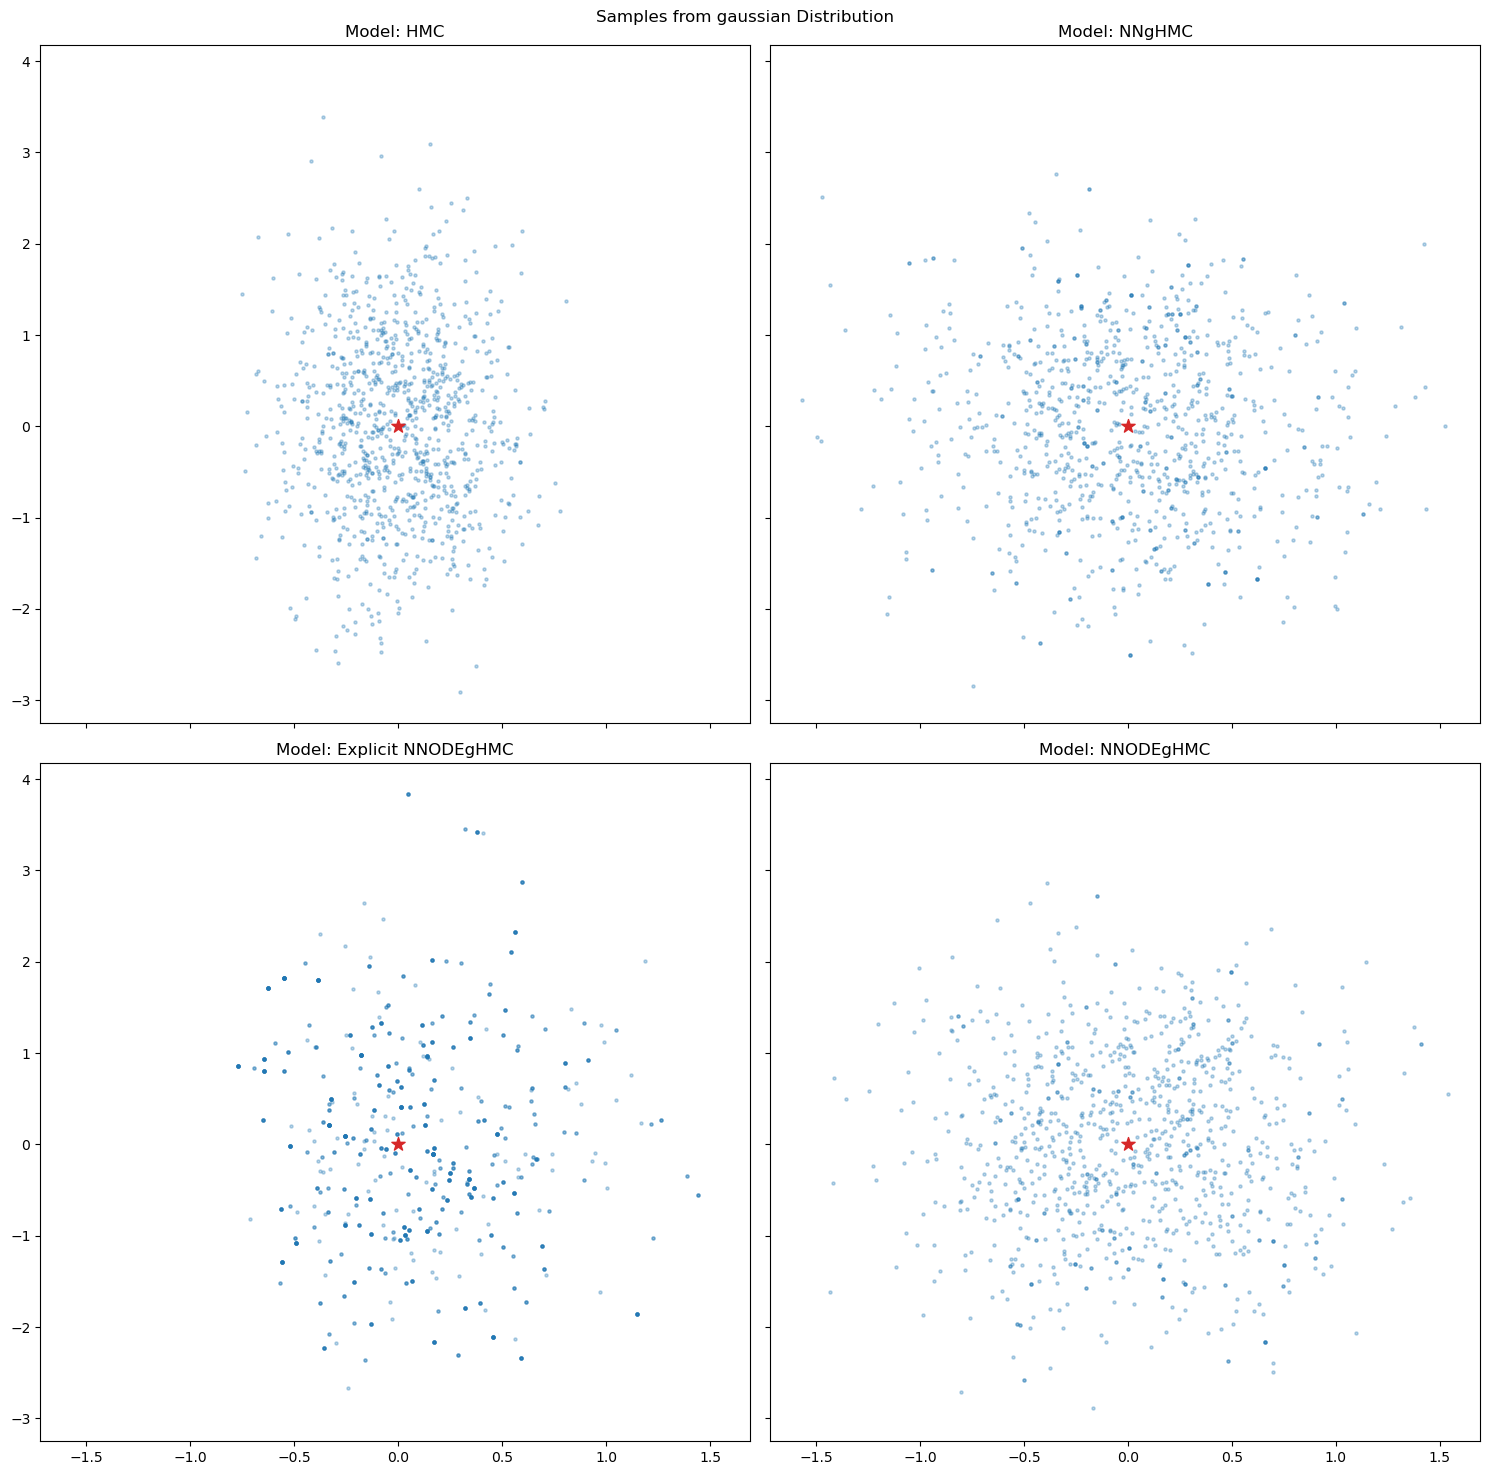
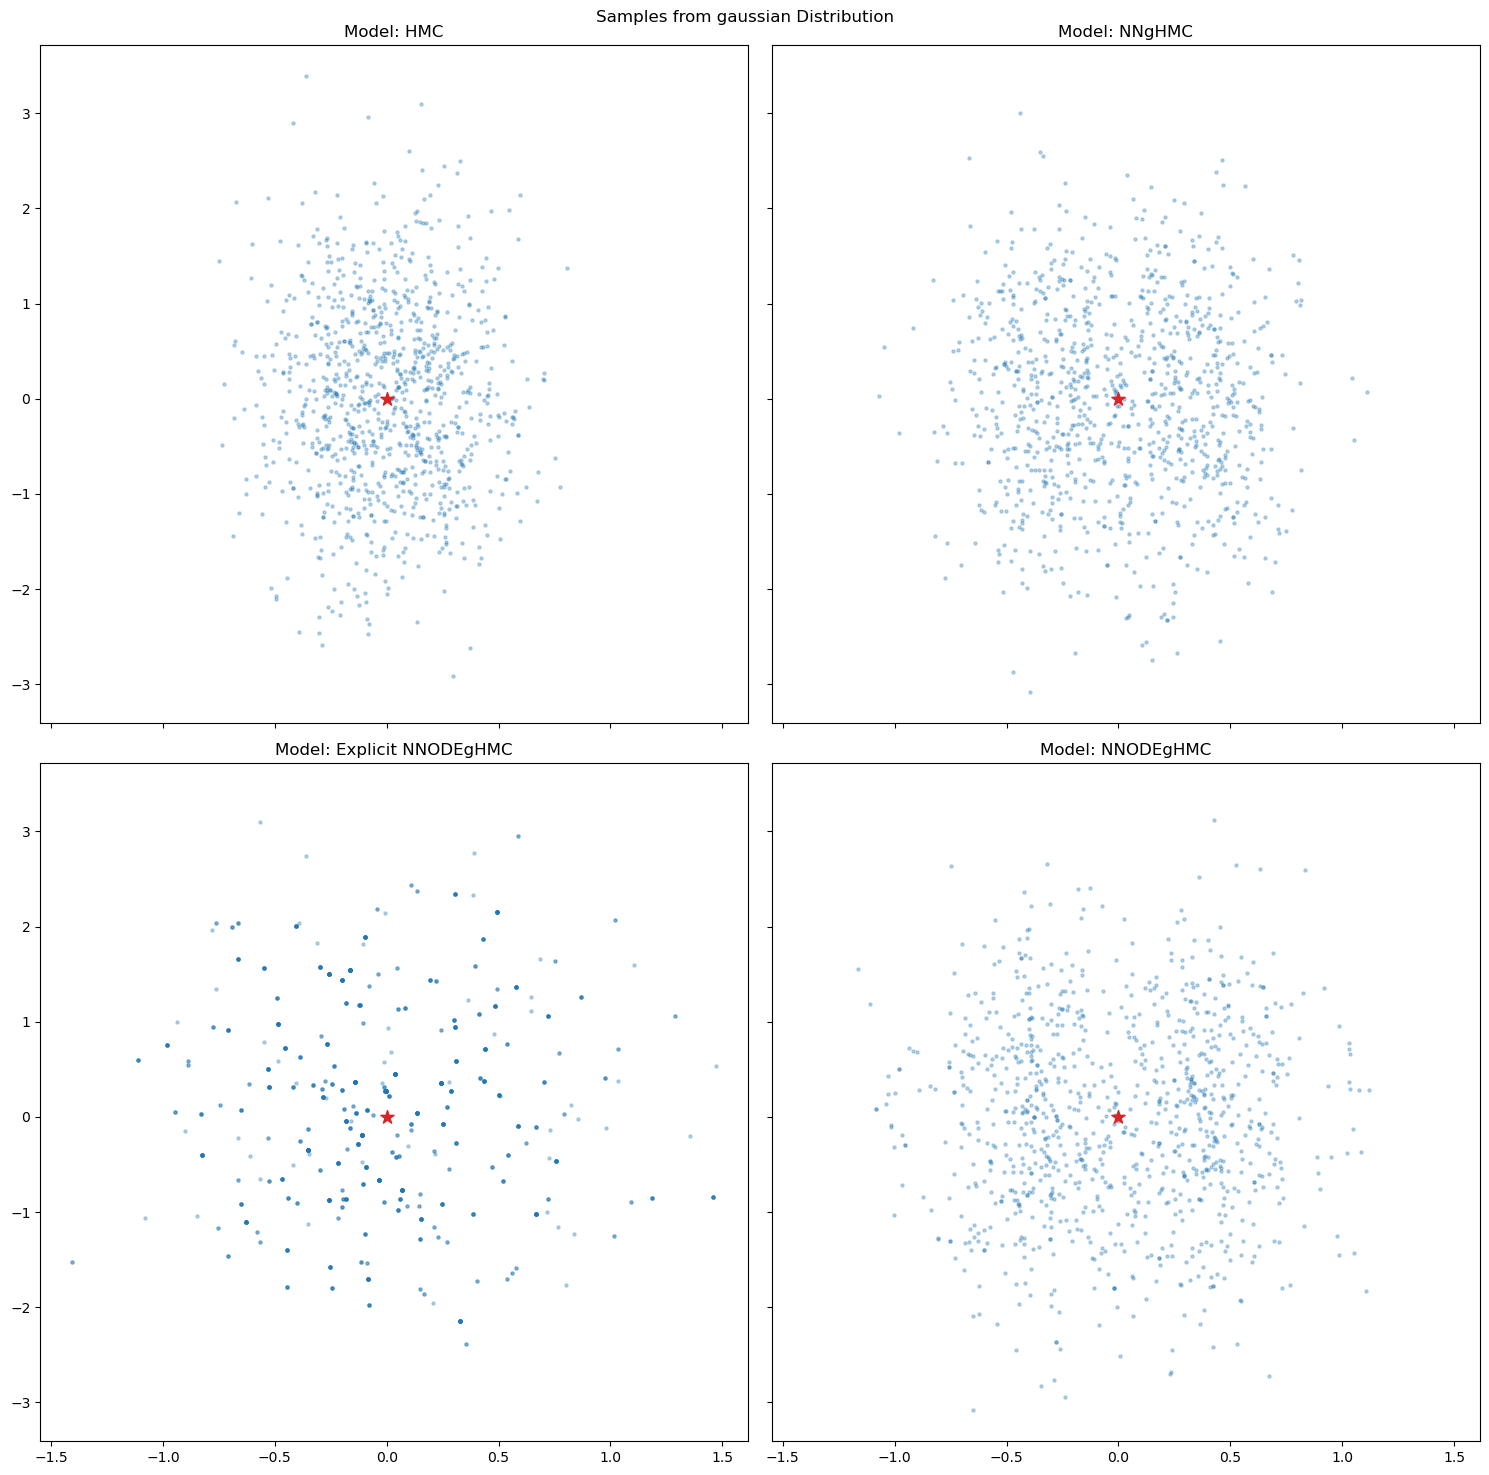
added final stuff before pres

diff --git a/hamiltorch/experiments.py b/hamiltorch/experiments.py
@@ -1,4 +1,5 @@
 import torch
+import numpy as np
 import hamiltorch
 import arviz as az
 from hamiltorch.samplers import leapfrog
@@ -29,7 +30,7 @@ experiment_hyperparams = {
 }
 
 
-def run_experiment(model_type, sensitivity, distribution, solver):
+def run_experiment(model_type, sensitivity, distribution, solver, percent = 1):
     hamiltorch.set_random_seed(123)
     print(f"Running experiment for: solver: {solver}, sensitivity: {sensitivity}, distribution: {distribution}, model: {model_type}")
     experiment_params = experiment_hyperparams[distribution]
@@ -53,7 +54,7 @@ def run_experiment(model_type, sensitivity, distribution, solver):
         return params_hmc, model, gradient_func
     elif model_type == "NNgHMC":
         params_hmc_surrogate, surrogate_model = hamiltorch.sample_surrogate_hmc(log_prob_func=log_prob, params_init=params_init,
-                                                  num_samples=N,step_size=step_size,num_steps_per_sample=L,burn=burn,
+                                                  num_samples=N,step_size=step_size,num_steps_per_sample=L,burn=int(burn * percent),
                                                   desired_accept_rate=0.8)
         model = lambda x, t: (None, torch.cat([torch.stack(item,0) for item in 
                                                leapfrog(x[..., :dim], x[..., dim:], log_prob_func=log_prob,steps = t.shape[0], 
@@ -61,13 +62,13 @@ def run_experiment(model_type, sensitivity, distribution, solver):
         return params_hmc_surrogate, model, surrogate_model
     elif model_type == "NNODEgHMC":
         params_hmc_surrogate_ode_nnghmc, surrogate_model_ode_nnghmc = hamiltorch.sample_neural_ode_surrogate_hmc(log_prob_func=log_prob, params_init=params_init,
-                                                  num_samples=N,step_size=step_size,num_steps_per_sample=L,burn=burn, model_type = "", sensitivity=sensitivity, solver = solver
+                                                  num_samples=N,step_size=step_size,num_steps_per_sample=L,burn=int(burn * percent), model_type = "", sensitivity=sensitivity, solver = solver
                                                   )
         gradient_func = surrogate_model_ode_nnghmc.odefunc
         return params_hmc_surrogate_ode_nnghmc, surrogate_model_ode_nnghmc, gradient_func
     elif model_type == "Explicit NNODEgHMC":
         params_hmc_surrogate_ode_explicit, surrogate_model_ode_explicit = hamiltorch.sample_neural_ode_surrogate_hmc(log_prob_func=log_prob, params_init=params_init,
-                                                  num_samples=N,step_size=step_size,num_steps_per_sample=L,burn=burn, model_type = "explicit_hamiltonian", 
+                                                  num_samples=N,step_size=step_size,num_steps_per_sample=L,burn=int(burn*percent), model_type = "explicit_hamiltonian", 
                                                   sensitivity=sensitivity, solver = solver
                                                   )
         gradient_func = surrogate_model_ode_explicit.odefunc
@@ -129,5 +130,57 @@ def surrogate_neural_ode_hmc_experiment():
     pd.DataFrame(error_list).to_csv("../experiments/diagnostic_results.csv", index = False)
     
 
+def surrogate_neural_ode_hmc_sample_size_experiment():
+    distributions = ["banana", "gaussian", "high_dimensional_gaussian", "normal_normal"]
+    sensitivities = ["autograd"]
+    solvers = ["SynchronousLeapfrog"]
+    models = ["HMC", "NNgHMC", "Explicit NNODEgHMC", "NNODEgHMC"]
+    percent_of_warmup = np.linspace(0.1, 1, 10)
+    error_list = []
+    for percent in percent_of_warmup:
+        for distribution in distributions:
+            for sensitivity in sensitivities:
+                for solver in solvers:
+                    model_dict = {}
+                    for model in models:
+                        
+                        start = time.time()
+                        
+                        experiment_samples, experiment_model, experiment_grad_func = run_experiment(model, sensitivity, distribution, solver, percent)
 
+                        end = time.time()
+                        model_dict[model] = {"samples":experiment_samples, "model": experiment_model, "time": end - start}
+                        
+                    true_samples = torch.stack(model_dict["HMC"]["samples"], 0)
+                    
+                    hamiltorch.set_random_seed(1)
+                    num_samples = 100
+                    initial_momentum = torch.distributions.Normal(0,1).sample(sample_shape = (num_samples, true_samples.shape[-1]))
+                    initial_positions = true_samples[torch.multinomial(torch.ones(true_samples.shape[0]), num_samples = 100, replacement=False), :]
+                    initial_conditions = torch.cat([initial_positions, initial_momentum], -1)
+                    
+                    for model in model_dict:
+                        error_dict = {}
+                        step_size = experiment_hyperparams[distribution]["step_size"] 
+                        L = experiment_hyperparams[distribution]["L"] 
+                        error, forward_traj, backward_traj = compute_reversibility_error(model_dict[model]["model"], initial_conditions,
+                                                            t = torch.linspace(0, L * step_size, L ))
+                        model_dict[model]["forward"] = forward_traj[0:5, :]
+                        model_dict[model]["backward"] = backward_traj[0:5, :]
+
+                        error_dict["model"] = model
+                        error_dict["training_size"] = percent
+                        error_dict["sensitivity"] = sensitivity
+                        error_dict["distribution"] = distribution
+                        error_dict["solver"] = solver
+                        error_dict["reversibility_error"] = error
+                        error_dict["time"] = model_dict[model]["time"]
+                        # error_dict["acf"] = autocorr(torch.stack(model_dict[model]["samples"],0).numpy()[None, :, :])
+                        error_dict["ess"] = ess(az.convert_to_inference_data(torch.stack(model_dict[model]["samples"],0).numpy()[None, : ,: ])).x.mean().values
+                        error_list.append(error_dict)
+
+                    plot_samples(model_dict, mean = experiment_hyperparams[distribution]["params_init"], distribution_name=distribution)
+                    plot_reversibility(model_dict, initial_positions,
+                                        distribution=distribution)
+    pd.DataFrame(error_list).to_csv("../experiments/diagnostic_results.csv", index = False)
 

diff --git a/hamiltorch/models.py b/hamiltorch/models.py
@@ -73,7 +73,7 @@ class RMHNNEnergyDeriv(nn.Module):
         n = self.input_dim  ### here it is both p, q concatenated
         state_space = x[..., :n] 
         dH = self.potential_deriv(state_space)
-        dHdq, dHdp = dH[..., : n // 2], dH[..., n // 2 ]
+        dHdq, dHdp = dH[..., : n // 2], dH[..., n // 2: ]
         return  torch.cat([dHdp, -dHdq], - 1)
 
 
@@ -105,47 +105,32 @@ class PSD(nn.Module):
     def __init__(self, input_dim, hidden_dim, diag_dim):
         super(PSD, self).__init__()
         self.diag_dim = diag_dim
-        if diag_dim == 1:
-            self.linear1 = nn.Linear(input_dim, hidden_dim)
-            self.linear2 = nn.Linear(hidden_dim, diag_dim)
+        self.off_diag_dim = int(diag_dim * (diag_dim - 1) / 2)
+        self.linear1 = nn.Linear(input_dim, hidden_dim)
+        self.linear2 = nn.Linear(hidden_dim, self.diag_dim + self.off_diag_dim)
 
-            for l in [self.linear1, self.linear2]:
-                nn.init.orthogonal_(l.weight) # use a principled initialization
-            
-            self.nonlinearity = nn.Tanh()
-        else:
-            assert diag_dim > 1
-            self.diag_dim = diag_dim
-            self.off_diag_dim = int(diag_dim * (diag_dim - 1) / 2)
-            self.linear1 = nn.Linear(input_dim, hidden_dim)
-            self.linear2 = nn.Linear(hidden_dim, self.diag_dim + self.off_diag_dim)
-
-            for l in [self.linear1, self.linear2]:
-                nn.init.orthogonal_(l.weight) # use a principled initialization
-            
-            self.nonlinearity = nn.Tanh()
+        for l in [self.linear1, self.linear2]:
+            nn.init.orthogonal_(l.weight) # use a principled initialization
+        
+        self.nonlinearity = nn.Tanh()
 
     def forward(self, q):
-        if self.diag_dim == 1:
-            h = self.nonlinearity( self.linear1(q) )
-            h = self.nonlinearity( self.linear2(h) )
-            return h*h + 0.1
-        else:
-            bs = q.shape[0]
-            h = self.nonlinearity( self.linear1(q) )
-            diag, off_diag = torch.split(self.linear2(h), [self.diag_dim, self.off_diag_dim], dim=1)
-            # diag = nn.functional.relu( self.linear4(h) )
 
-            L = torch.diag_embed(nn.Softplus()(diag))
+        bs = q.shape[0]
+        h = self.nonlinearity( self.linear1(q) )
+        diag, off_diag = torch.split(self.linear2(h), [self.diag_dim, self.off_diag_dim], dim=1)
+        # diag = nn.functional.relu( self.linear4(h) )
 
-            ind = np.tril_indices(self.diag_dim, k=-1)
-            flat_ind = np.ravel_multi_index(ind, (self.diag_dim, self.diag_dim))
-            L = torch.flatten(L, start_dim=1)
-            L[:, flat_ind] = off_diag
-            L = torch.reshape(L, (bs, self.diag_dim, self.diag_dim))
+        L = torch.diag_embed(nn.Softplus()(diag))
 
-            D = torch.bmm(L, L.permute(0, 2, 1))
-            return D
+        ind = np.tril_indices(self.diag_dim, k=-1)
+        flat_ind = np.ravel_multi_index(ind, (self.diag_dim, self.diag_dim))
+        L = torch.flatten(L, start_dim=1)
+        L[:, flat_ind] = off_diag
+        L = torch.reshape(L, (bs, self.diag_dim, self.diag_dim))
+
+        D = torch.bmm(L, L.permute(0, 2, 1))
+        return D
 
 
 class PSDPotential(nn.Module):
@@ -219,7 +204,7 @@ class RMHNNEnergyExplicit(nn.Module):
 
 
     def forward(self, x, *args, **kwargs):
-        q, p = x[..., :self.input_dim], x[..., self.input_dim:  2*self.input_dim]
+        q, p = x[..., :self.input_dim], x[..., self.input_dim:]
 
         mass_matrix, potential = self.hamiltonian_components(q)
         kinetic = .5 * torch.bmm(p[:, None, :], torch.bmm(mass_matrix, p[:, :, None]))

diff --git a/hamiltorch/plot_utils.py b/hamiltorch/plot_utils.py
@@ -49,7 +49,7 @@ def plot_reversibility(sample_dict: Dict, samples, distribution = ""):
     # Add samples 
     for index, label in enumerate(sample_dict):
         samples = torch.stack(sample_dict[label]["samples"],0)
-        axs.flat[index].scatter(samples[:, 0], samples[:, 1], alpha = .3, color = "blue")
+        axs.flat[index].scatter(samples[:, 0], samples[:, 1], alpha = .3, color = "green")
         forward_trajectories = sample_dict[label]["forward"]
         backward_trajectories = sample_dict[label]["backward"]
         num_samples = forward_trajectories.shape[0]

diff --git a/hamiltorch/__init__.py b/hamiltorch/__init__.py
@@ -2,4 +2,4 @@ __version__ = '0.4.1'
 
 from .samplers import sample, sample_model, predict_model, sample_split_model, Sampler, Integrator, Metric, sample_surrogate_hmc, sample_neural_ode_surrogate_hmc, sample_neural_ode_surrogate_rmhmc
 from .util import set_random_seed
-from .experiments import surrogate_neural_ode_hmc_experiment
+from .experiments import surrogate_neural_ode_hmc_experiment, surrogate_neural_ode_hmc_sample_size_experiment
